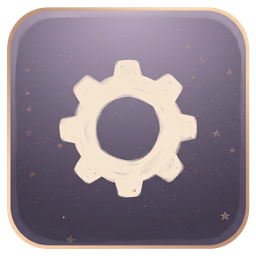
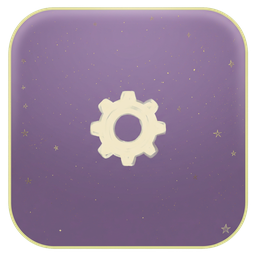
Repinta llamadas y ajustes, que eran las dos que chocaban
Llamadas compartia los tres ejes con mensajes (tono 10 contra 2, luz 67
contra 70, saturacion 37 contra 38) y ajustes estaba a 12 grados de
contactos. Girarles el tono no valia: llamadas se iba a verde menta y a
ajustes se le ponia el marco dorado rosa.

Llamadas vuelve en gris neutro (S 4) y ajustes en violeta. Ajustes volvio
del pincel en indigo, a 6 grados de finales, o sea cambiando una colision
por otra, asi que se le dan 40 grados en el proceso hasta 291: ahi tiene
40 de margen con finales y 34 con contactos.

Llamadas sale de la tabla de rebaja de color: la nueva ya viene apagada
de serie y volver a rebajarla la dejaba en gris muerto.

Las nueve quedan repartidas por la rueda con 29 grados minimo entre
vecinas, salvo llamadas y archivos, que comparten tono (42) pero se
separan por saturacion (4 contra 14) y por textura.

Claude-Session: https://claude.ai/code/session_01P1J9MJnJUYY8y1kfFtEyNY

diff --git a/tools/procesa_ui.py b/tools/procesa_ui.py
@@ -25,10 +25,11 @@ DESTINO = os.path.join(RAIZ, 'assets', 'ui')
 LADO = 256
 
 # Cuanto se rebaja el color de una pieza, 1.0 = tal cual salio del pincel.
-# Llamadas y album volvieron con el doble de saturacion que las demas
-# (77% y 54% frente al 7-38% del resto) y se comian la rejilla. Se ajustan
-# aqui y no en el archivo de origen, para que el arte crudo siga intacto.
-AJUSTES = {'llamadas': 0.52, 'album': 0.74}
+# Album volvio con el 54% de saturacion frente al 7-38% del resto y se comia
+# la rejilla. Se ajusta aqui y no en el archivo de origen, para que el arte
+# crudo siga intacto. Llamadas estuvo aqui hasta que se repinto: la nueva ya
+# viene apagada de serie y volver a rebajarla la dejaba en gris muerto.
+AJUSTES = {'album': 0.74}
 
 # Grados que se gira el tono de cada pieza.
 #
@@ -40,15 +41,20 @@ AJUSTES = {'llamadas': 0.52, 'album': 0.74}
 # Aqui se reparten con 25 grados de separacion como minimo. Mensajes no se
 # toca porque es el nucleo de la pantalla, y archivos casi tampoco porque
 # su arena es el neutro de la piel.
-# Solo caben giros cortos. Probados los seis, los de mas de 60 grados
-# rompian la pieza: llamadas acababa en verde menta, o sea volvia a ser la
-# que grita, y a ajustes el marco dorado se le ponia rosa porque a ese
-# tono la mascara ya no lo distingue del cuerpo. Los que colisionan de
-# verdad se repintan, no se giran.
+# El giro no sirve para todo. Lo que decide no es cuantos grados, sino de
+# donde sale la pieza: girar 96 grados finales, que es apagada, la dejo
+# perfecta, pero girar 135 llamadas, que estaba saturada, la convirtio en
+# verde menta, o sea en la que volvia a gritar. Y girar el rosa de ajustes
+# le puso el marco dorado rosa, porque a ese tono la mascara ya no lo
+# distingue del cuerpo.
+#
+# O sea: gira bien lo que ya esta apagado y lejos del dorado. Lo demas se
+# repinta. Llamadas y ajustes se repintaron por eso.
 GIRO = {
     'album': +15,        #  20 ->  32, de rosa polvoriento a arena dorada
     'finales': -96,      # 346 -> 251, de ciruela a indigo
     'contactos': -15,    # 335 -> 325, malva, un retoque
+    'ajustes': +40,      # 247 -> 291, de indigo a violeta
 }
 # El marco dorado interior lo comparten las nueve, asi que girarlo con el
 # resto rompe la familia. Se deja quieto todo lo que sea claro y calido,
